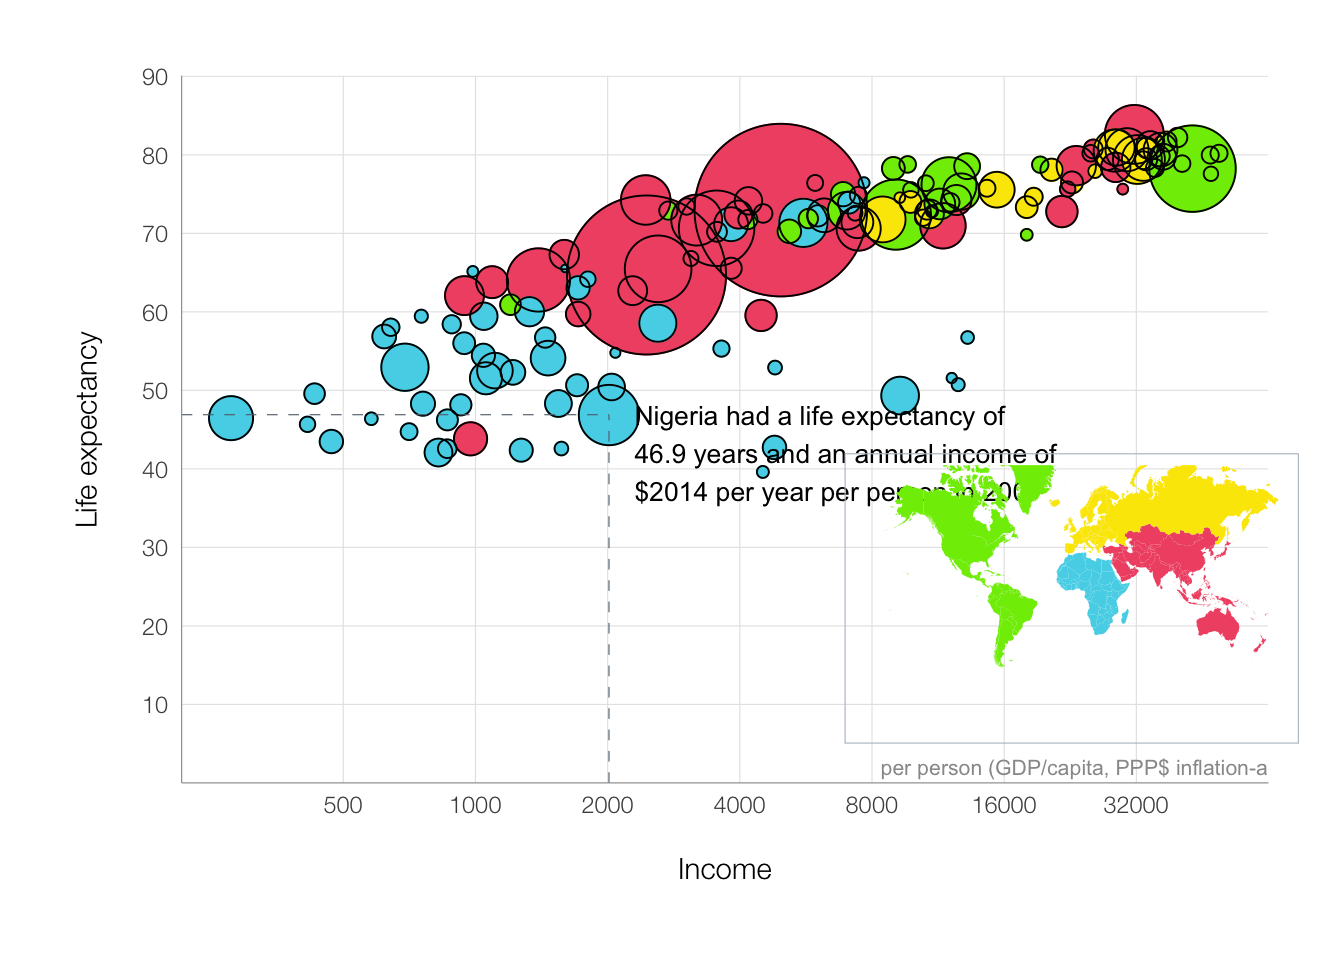
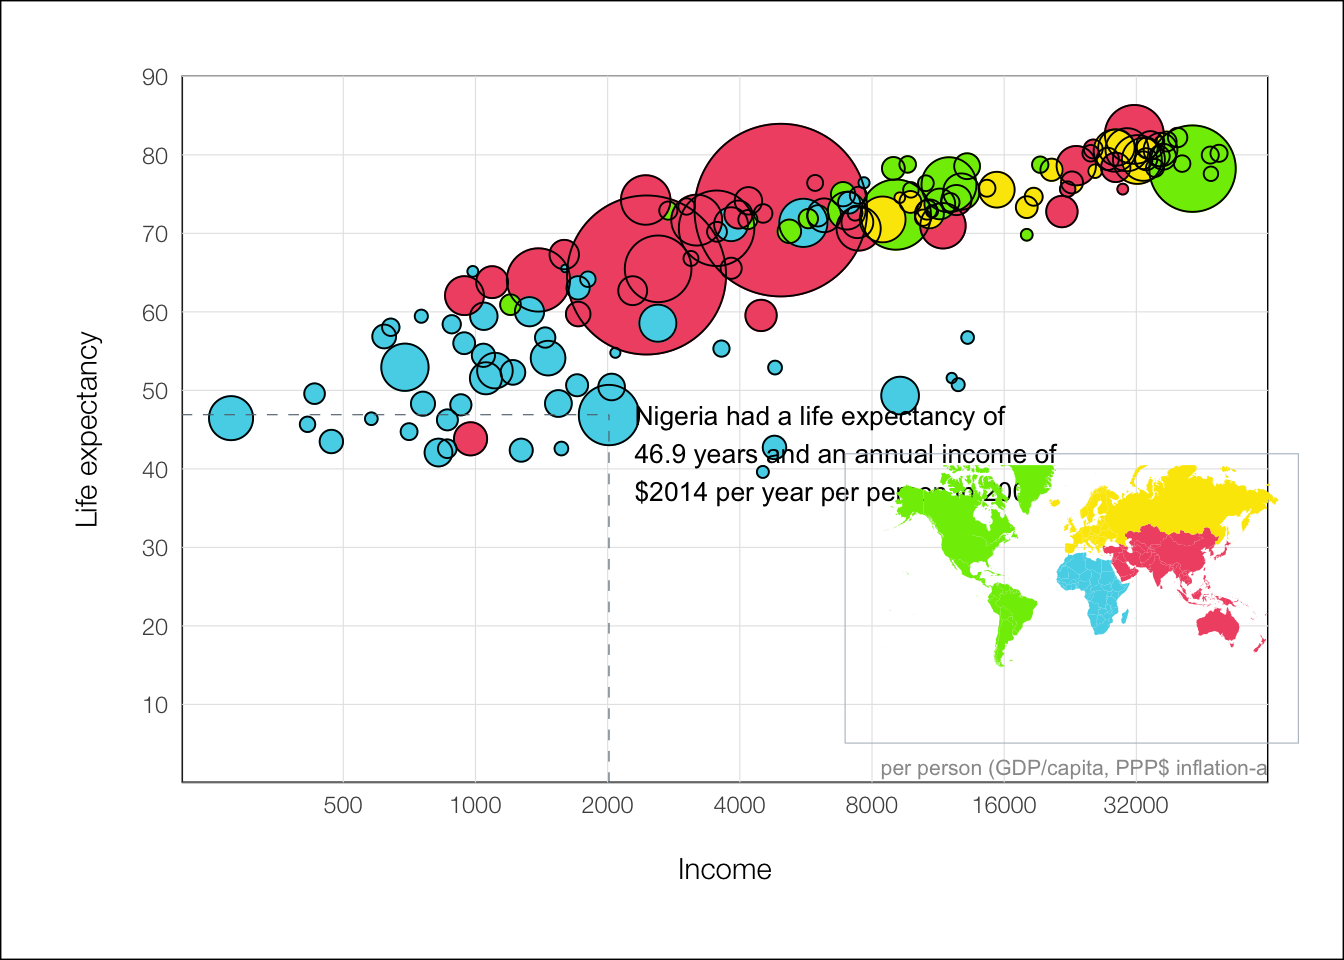
R colors and barplot with same width

diff --git a/docs/blog/2023/03/06/index.html b/docs/blog/2023/03/06/index.html
@@ -286,6 +286,8 @@ Supply arguments directly to `.fns` through an anonymous function instead.
 <span>          axis.ticks <span class="op">=</span> <span class="fu"><a href="https://ggplot2.tidyverse.org/reference/element.html">element_line</a></span><span class="op">(</span>color <span class="op">=</span> <span class="st">"#3D4852"</span><span class="op">)</span>,</span>
 <span>          panel.grid.major.y <span class="op">=</span> <span class="fu"><a href="https://ggplot2.tidyverse.org/reference/element.html">element_line</a></span><span class="op">(</span>color <span class="op">=</span> <span class="st">"#DAE1E7"</span><span class="op">)</span>,</span>
 <span>          panel.grid.major.x <span class="op">=</span> <span class="fu"><a href="https://ggplot2.tidyverse.org/reference/element.html">element_blank</a></span><span class="op">(</span><span class="op">)</span>,</span>
+<span>          panel.background <span class="op">=</span> <span class="fu"><a href="https://ggplot2.tidyverse.org/reference/element.html">element_rect</a></span><span class="op">(</span>fill <span class="op">=</span> <span class="st">"white"</span><span class="op">)</span>,</span>
+<span>          plot.background <span class="op">=</span> <span class="fu"><a href="https://ggplot2.tidyverse.org/reference/element.html">element_rect</a></span><span class="op">(</span>fill <span class="op">=</span> <span class="st">"white"</span><span class="op">)</span>,</span>
 <span>          plot.margin <span class="op">=</span> <span class="fu"><a href="https://rdrr.io/r/grid/unit.html">unit</a></span><span class="op">(</span><span class="fu"><a href="https://rdrr.io/r/base/rep.html">rep</a></span><span class="op">(</span><span class="fl">0.2</span>,<span class="fl">4</span><span class="op">)</span>,<span class="st">"cm"</span><span class="op">)</span>,</span>
 <span>          axis.text <span class="op">=</span> <span class="fu"><a href="https://ggplot2.tidyverse.org/reference/element.html">element_text</a></span><span class="op">(</span>size <span class="op">=</span> <span class="fl">12</span>, color <span class="op">=</span> <span class="st">"#22292F"</span><span class="op">)</span>,</span>
 <span>          axis.title <span class="op">=</span> <span class="fu"><a href="https://ggplot2.tidyverse.org/reference/element.html">element_text</a></span><span class="op">(</span>size <span class="op">=</span> <span class="fl">12</span>, hjust <span class="op">=</span> <span class="fl">1</span><span class="op">)</span>,</span>

diff --git a/docs/blog/2023/03/05/index.html b/docs/blog/2023/03/05/index.html
@@ -331,6 +331,8 @@ of ggplot2 3.3.4.</code></pre>
 <span>        <span class="op">)</span></span>
 <span>    <span class="op">)</span> <span class="op">+</span></span>
 <span>    <span class="fu"><a href="https://ggplot2.tidyverse.org/reference/theme.html">theme</a></span><span class="op">(</span></span>
+<span>        panel.background <span class="op">=</span> <span class="fu"><a href="https://ggplot2.tidyverse.org/reference/element.html">element_rect</a></span><span class="op">(</span>fill <span class="op">=</span> <span class="st">"white"</span><span class="op">)</span>,</span>
+<span>        plot.background <span class="op">=</span> <span class="fu"><a href="https://ggplot2.tidyverse.org/reference/element.html">element_rect</a></span><span class="op">(</span>fill <span class="op">=</span> <span class="st">"white"</span><span class="op">)</span>,</span>
 <span>        plot.margin <span class="op">=</span> <span class="fu"><a href="https://rdrr.io/r/grid/unit.html">unit</a></span><span class="op">(</span><span class="fu"><a href="https://rdrr.io/r/base/rep.html">rep</a></span><span class="op">(</span><span class="fl">1</span>, <span class="fl">4</span><span class="op">)</span>, <span class="st">"cm"</span><span class="op">)</span>,</span>
 <span>        panel.grid.minor <span class="op">=</span> <span class="fu"><a href="https://ggplot2.tidyverse.org/reference/element.html">element_blank</a></span><span class="op">(</span><span class="op">)</span>,</span>
 <span>        panel.grid.major <span class="op">=</span> <span class="fu"><a href="https://ggplot2.tidyverse.org/reference/element.html">element_line</a></span><span class="op">(</span></span>

diff --git a/docs/blog/index.html b/docs/blog/index.html
@@ -294,7 +294,7 @@ ul.task-list li input[type="checkbox"] {
             <img src="../blog/2023/03/01/barplot.png" alt="Equalizing Bar Widths" title="Equalizing Bar Widths">
         </div>
     </div>
-    <div class="blog-entry" data-index="2" data-categories="barplot,R" data-listing-date-sort="1678032000000" data-listing-file-modified-sort="1678197383486" data-listing-reading-time-sort="5.865">
+    <div class="blog-entry" data-index="2" data-categories="barplot,R" data-listing-date-sort="1678032000000" data-listing-file-modified-sort="1678197959207" data-listing-reading-time-sort="6.005">
         <div class="metadata">          
             <p class="date listing-date">March 6, 2023</p>
         </div>
@@ -314,7 +314,7 @@ ul.task-list li input[type="checkbox"] {
             <img src="../blog/2023/03/06/plot.png" alt="ggplot2 with p-value and significant level" title="ggplot2 with p-value and significant level">
         </div>
     </div>
-    <div class="blog-entry" data-index="3" data-categories="scatter plot,R" data-listing-date-sort="1677945600000" data-listing-file-modified-sort="1678197195787" data-listing-reading-time-sort="5.52">
+    <div class="blog-entry" data-index="3" data-categories="scatter plot,R" data-listing-date-sort="1677945600000" data-listing-file-modified-sort="1678197966165" data-listing-reading-time-sort="5.64">
         <div class="metadata">          
             <p class="date listing-date">March 5, 2023</p>
         </div>

diff --git a/docs/atom.html b/docs/atom.html
@@ -351,7 +351,7 @@ Guorui Zhong
 </a>
 </div>
 </div>
-<div class="quarto-post image-right" data-index="6" data-categories="scatter plot,R" data-listing-date-sort="1677945600000" data-listing-file-modified-sort="1678197195787" data-listing-reading-time-sort="5.52">
+<div class="quarto-post image-right" data-index="6" data-categories="scatter plot,R" data-listing-date-sort="1677945600000" data-listing-file-modified-sort="1678197966165" data-listing-reading-time-sort="5.64">
 <div class="thumbnail">
 <p><a href="./blog/2023/03/05/index.html"> <img src="./blog/2023/03/05/plot.png" class="thumnail-image"> </a></p>
 </div>
@@ -523,7 +523,7 @@ Guorui Zhong
 </a>
 </div>
 </div>
-<div class="quarto-post image-right" data-index="12" data-categories="barplot,R" data-listing-date-sort="1678032000000" data-listing-file-modified-sort="1678197383486" data-listing-reading-time-sort="5.865">
+<div class="quarto-post image-right" data-index="12" data-categories="barplot,R" data-listing-date-sort="1678032000000" data-listing-file-modified-sort="1678197959207" data-listing-reading-time-sort="6.005">
 <div class="thumbnail">
 <p><a href="./blog/2023/03/06/index.html"> <img src="./blog/2023/03/06/plot.png" class="thumnail-image"> </a></p>
 </div>
